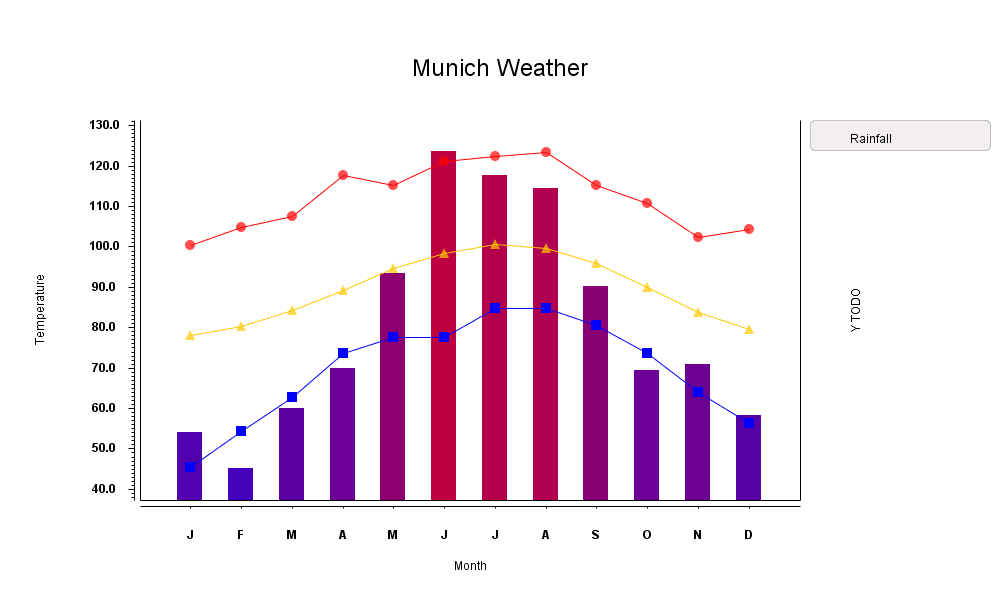
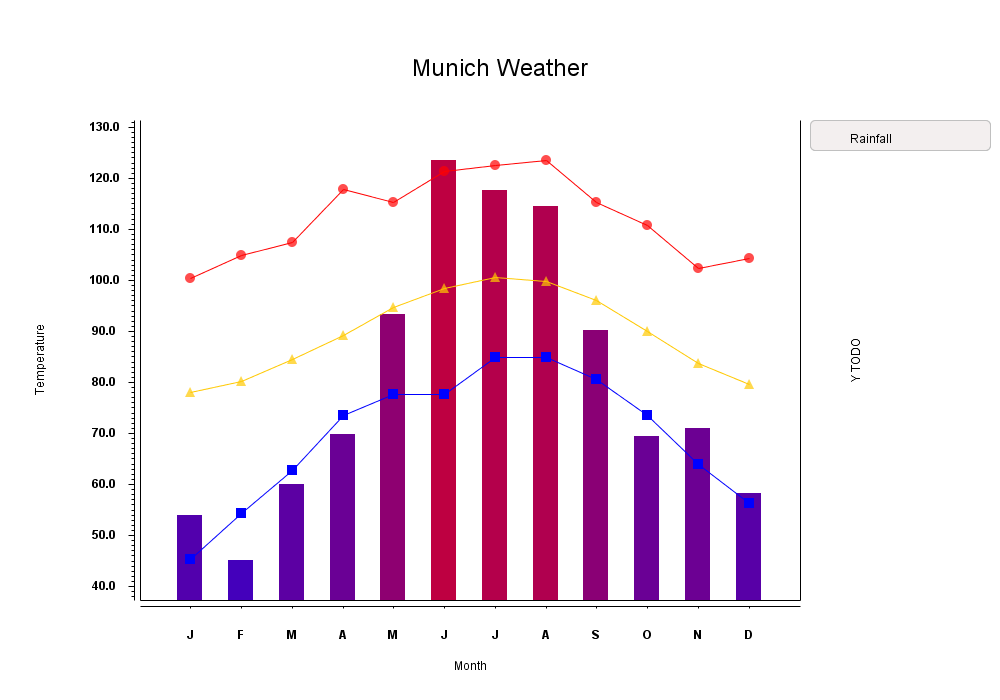
regernated images

diff --git a/src/test/java/com/bluewalrus/main/test/bubble/BubbleTester.java b/src/test/java/com/bluewalrus/main/test/bubble/BubbleTester.java
@@ -41,35 +41,18 @@ public class BubbleTester extends JFrame {
     	
     	
 	public JTabbedPane createPanel() {
-    		
 
     	final ArrayList<JComponent> charts = new ArrayList<JComponent>();
     	
-//        JTabbedPane tabbedPane = new JTabbedPane();
-    	
         JTabbedPane tabbedPaneBar = new JTabbedPane();
-
-        
-        
-//        tabbedPane.add("Bar Charts", tabbedPaneBar);
 
         JPanel p = null;
         JComponent chart = null;
-
-        
-        
-        /***
-         * 
-         * 
-         * BARS
-         * 
-         */
 
         p = createTabbedPane(tabbedPaneBar, "Bubble Guns");
         chart = new TestDataBubble_1_guns().getChart();
         charts.add(chart);
         p.add(chart);
-
         
         p = createTabbedPane(tabbedPaneBar, "Bubble Series");
         chart = new TestDataBubble_2_series().getChart();
@@ -80,8 +63,6 @@ public class BubbleTester extends JFrame {
         chart = new TestDataPieBubble().getChart();
         charts.add(chart);
         p.add(chart);
-        
-
         
         JButton b = new JButton("Create PNG");
 
@@ -95,7 +76,6 @@ public class BubbleTester extends JFrame {
 					
 					int width = 0;
 					int height = 0;
-					
 					
 					if (chart2 instanceof Chart) {
 						width = ((Chart)chart2).getWidth(); 
@@ -132,10 +112,8 @@ public class BubbleTester extends JFrame {
 
         this.setDefaultCloseOperation(JFrame.EXIT_ON_CLOSE);
         
-        
         return tabbedPaneBar;
     }
-
 
 
     private JPanel createTabbedPane(JTabbedPane tabbedPane, String string) {

diff --git a/src/test/java/com/bluewalrus/main/test/ChartTester.java b/src/test/java/com/bluewalrus/main/test/ChartTester.java
@@ -1,6 +1,7 @@
 package com.bluewalrus.main.test;
 
 import java.awt.Color;
+import java.awt.Dimension;
 import java.awt.Graphics;
 import java.awt.Graphics2D;
 import java.awt.image.BufferedImage;
@@ -105,7 +106,7 @@ public abstract class ChartTester extends JFrame{
         this.generateCodeSnippetFile();
         this.appendFileNameToChart(chart);
 
-        this.writeChart(chart, GenerateShowcase.path);
+        this.writeChart(chart, GenerateShowcase.path, null);
 	}
 
 	private void writeFile(StringBuilder sbCodeSnippet, String fileName){
@@ -148,22 +149,21 @@ public abstract class ChartTester extends JFrame{
         String s = this.getClassName();
         chart.fileLocation = s;
 	}
+	
+	Dimension defaultDimension = new Dimension(1000, 700);
 
-	public void writeChart(Chart chart, String path) {
+	public void writeChart(Chart chart, String path, Dimension dimension) {
+		
 		int width = chart.getWidth(); 
 		int height = chart.getHeight();
-		if (chart.getWidth() == 0) {
-			width = 700;
-//			chart.widthChart = 300;
-		}
-		if (chart.getHeight() == 0) {
-			height = 700;
-//			chart.heightChart = 300;
+
+		if (dimension == null) {
+			chart.setSize(defaultDimension);
+			chart.setMinimumSize(defaultDimension);
+			chart.setPreferredSize(defaultDimension);
 		}
 		
-		chart.setSize(width,height);
-		
-		BufferedImage image = new BufferedImage(width, height, 
+		BufferedImage image = new BufferedImage(chart.getWidth(), chart.getHeight(), 
 				BufferedImage.TYPE_INT_ARGB);
 
 		

diff --git a/src/test/java/com/bluewalrus/main/GenerateShowcase.java b/src/test/java/com/bluewalrus/main/GenerateShowcase.java
@@ -75,8 +75,8 @@ public class GenerateShowcase {
     	
     	//BUBBLE
     	new TestDataBubble_1_guns().createImageAndTextFile();
-//    	new TestDataBubble_2_series().createImageAndTextFile(); //error!
-    	new TestDataPieBubble().createImageAndTextFile();
+    	new TestDataBubble_2_series().createImageAndTextFile(); //error!
+//    	new TestDataPieBubble().createImageAndTextFile();
     	
     	//PIE
     	new TestDataPie_SimplePie().createImageAndTextFile();

diff --git a/src/main/java/com/bluewalrus/chart/draw/plotter/ChartPlotter.java b/src/main/java/com/bluewalrus/chart/draw/plotter/ChartPlotter.java
@@ -172,6 +172,14 @@ public class ChartPlotter {
 
 	protected XYFactor getXYFactor(XYChart chart, XAxis xAxis, YAxis yAxis) {
 		
+		if (chart.heightChart < 0)
+			throw new RuntimeException("Chart cannot have negative height");
+		if (chart.widthChart < 0)
+			throw new RuntimeException("Chart cannot have negative width");
+		
+		
+		
+		
     	double yMax = yAxis.axisScaling.getMaxValue();
     	double yMin = yAxis.axisScaling.getMinValue();
     	

diff --git a/src/main/java/com/bluewalrus/chart/draw/point/UIPointBubble.java b/src/main/java/com/bluewalrus/chart/draw/point/UIPointBubble.java
@@ -60,6 +60,12 @@ public class UIPointBubble extends UIPointComplexXY {
 			mag = dpWithM.magnitude * xyFactor.yFactor;
 		}
 
+		if (mag <= 0){
+
+			System.out.println("mag");
+			throw new RuntimeException("magnitude cannot be zero or less : " + mag);
+
+		}
 		/**
 		 * Magnitude is equivalent to area of circle.
 		 * 

diff --git a/src/test/java/com/bluewalrus/main/test/bubble/TestDataBubble_2_series.java b/src/test/java/com/bluewalrus/main/test/bubble/TestDataBubble_2_series.java
@@ -64,7 +64,7 @@ public class TestDataBubble_2_series extends ChartTester {
 
         XYChart chart = new XYChart(xySeriesList, yAxis, xAxis, 15);
 
-        chart.setSize(700, 200);
+        chart.setSize(700, 400);
         
         chart.rightOffset = 200;
 

diff --git a/src/main/java/com/bluewalrus/chart/XYFactor.java b/src/main/java/com/bluewalrus/chart/XYFactor.java
@@ -32,6 +32,8 @@ public class XYFactor {
 	public double xZeroOffsetInPixel = 200; //what is this???
 	
 	public XYFactor(double xFactor, double yFactor) {
+		
+
 		this.xFactor = xFactor;
 		this.yFactor = yFactor;
 	}
